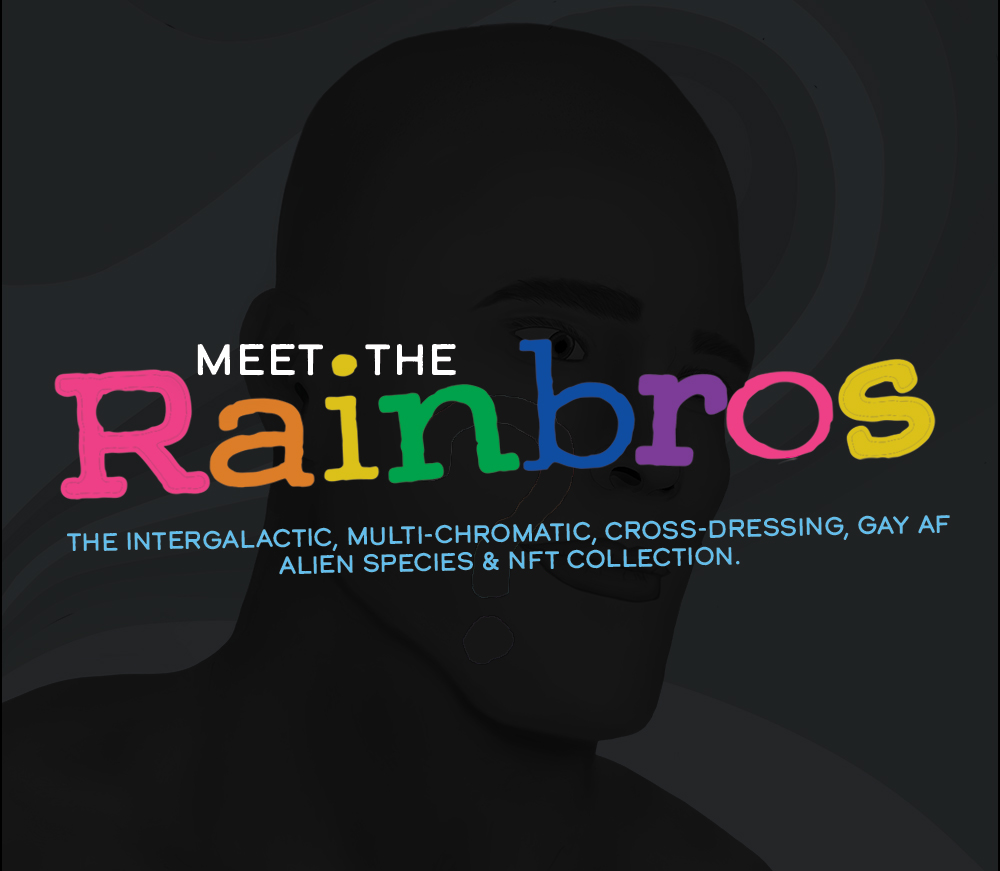
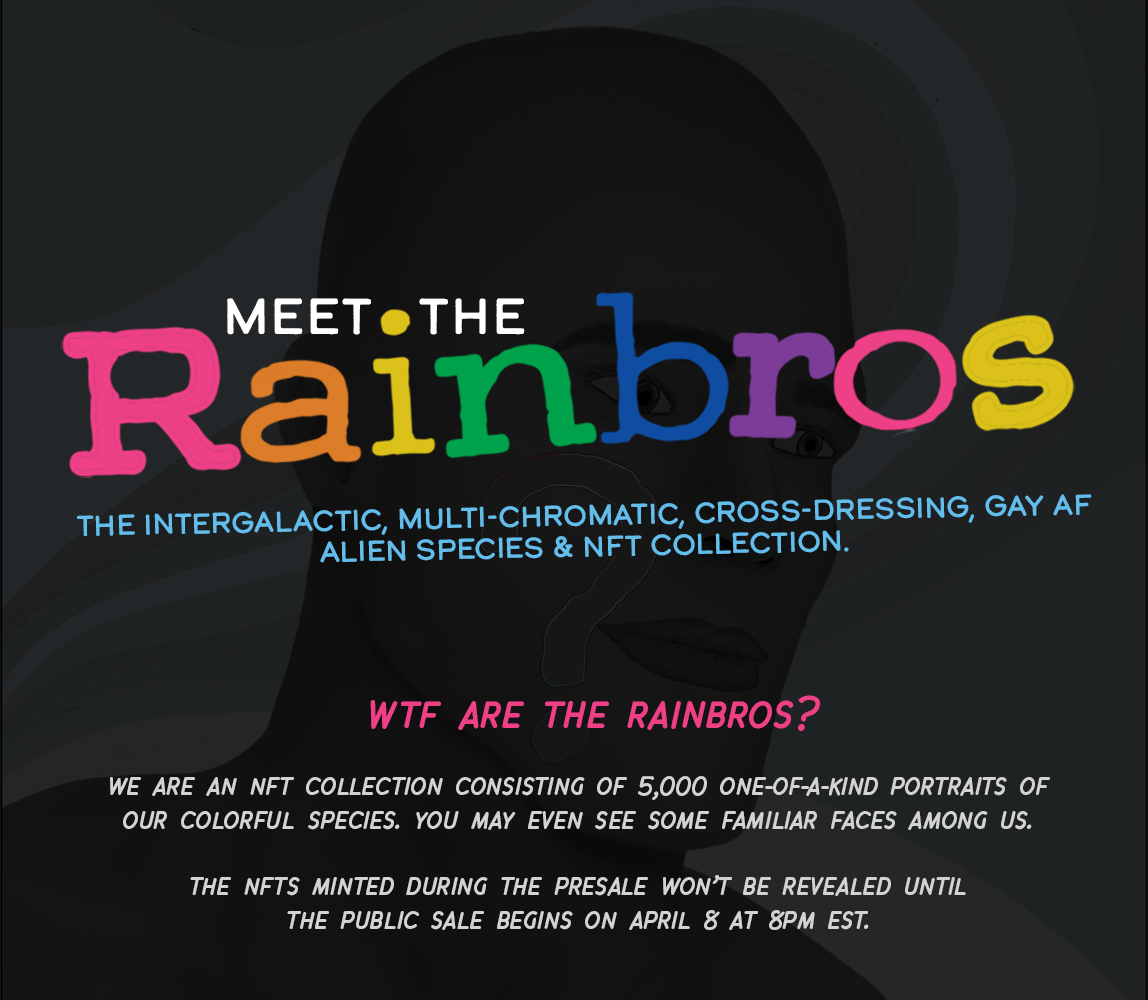
edit

Changed region(s): [[0.031, 0.279, 0.961, 0.744], [0.093, 0.775, 0.93, 0.837], [0.155, 0.868, 0.837, 0.93]]

diff --git a/frontend/index.html b/frontend/index.html
@@ -71,15 +71,20 @@
     </div>
     </header>
 
+
     <section class="container not-connected">
       <div class="welcome">
-        <h1 id="welcomeH1">Meet the Rainbros!</h2>
-        <img src="images/MeetTheRainbros.jpg"/>
+        <div class="row">
+          <div class="column">
+        <img src="images/MeetTheRainbros.png"/>
+        <img src="images/preview.gif"/></div>
+        <div class="column">
+          <h1 id="welcomeH1">Meet the Rainbros!</h1>
         <p id="welcomeP">
           The CodeCats NFT Project is a decentralized, open-source project that aims to demonstrate how to develope and launch your own NFT Collection. Follow step by step on the <a href="https://youtube.com/codestackr"  target="_blank" rel="noopener noreferrer">codeSTACKr</a> YouTube channel.
         </p>
         <h2 id="welcomeH2">Connect to MetaMask in the topbar to get started.</h2>
-      </div>
+      </div></div></div>
     </section>
 
     <section class="container">

diff --git a/frontend/js/constants.js b/frontend/js/constants.js
@@ -3,7 +3,7 @@ const chain = 'rinkeby'; // rinkeby or polygon
 
 const welcome_h1 = "Meet the Rainbros!";
 const welcome_h2 = "Connect to MetaMask above to get started";
-const welcome_p = 'Rainbros are a NFT collection consisting of 5,000 one-of-a-kind portraits of an alien species whos planet is much like ours, only more colorful. You may even see some familiar faces among them. The images, some more rare than others (and a few very rare), were created by New York-based graphic artist Scott McPherson.';
+const welcome_p = 'We are an NFT collection consisting of <strong>5,000 one-of-a-kind portraits </strong> of our colorful species. You may even see some familiar faces among us. <br> <br>The NFTs minted during the presale wont be revealed until the public sale begins on April 8 at 8PM EST.';
 const h1_presale_coming_soon = "NFT Drop Coming Soon!";
 const h1_presale_mint = "Pre-Sale Minting is Now Open.";
 const h1_public_mint = "Public Minting is Now Open.";

diff --git a/frontend/css/style.css b/frontend/css/style.css
@@ -31,6 +31,7 @@ body {
   height: 100vh;
   color: var(--font-color);
   font-family: var(--font-primary);
+  overflow: hidden;
 }
 
 .container {
@@ -93,6 +94,22 @@ header .logo img {
   font-style: italic;
   margin: 2rem 0;
   font-size: 3.5rem;
+}
+
+h1#welcomeH1{
+  display: none;
+}
+
+.column {
+  float: left;
+  width: 50%;
+}
+
+/* Clear floats after the columns */
+.row:after {
+  content: "";
+  display: table;
+  clear: both;
 }
 
 .not-connected h2{
@@ -399,6 +416,10 @@ background: none !important;
 @media screen and (max-width: 768px) {
   .menu {
     gap: 1rem;
+  }
+
+  .column {
+    width: 100%;
   }
   .wallet-btn {
     margin-left: 0;
